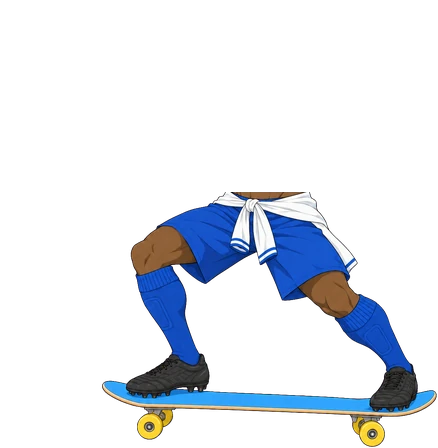
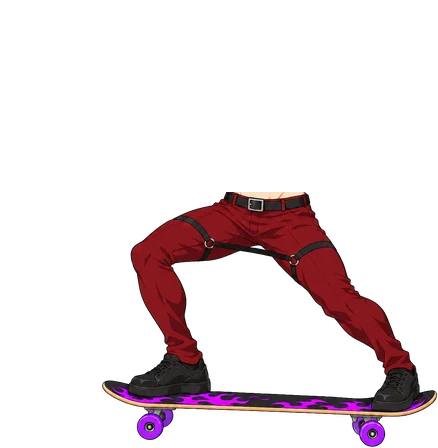
fix: 哥们 skate7 巴神改成八神庵（红发遮眼、黑短夹克、紫火；绿幕出图免得紫火被品红幕键掉）

Changed region(s): [[0.2374, 0.4062, 1.0, 1.0]]

diff --git a/chashouji/web/crew.js b/chashouji/web/crew.js
@@ -647,7 +647,7 @@ const Buddy = Crew({
      借 80/90 后熟知的角色，只留认人特征、发型服饰重新设计（v14/buddy/make.py 有逐个说明）。
      2、3（反戴红帽 / 金发花衬衫）用户拿掉了，贴图删了。 */
   skins: [1,                        // skate1 棕发护目镜花短裤红滑板
-          4, 5, 6, 7,               // skate4 金箍浪子（至尊宝）/ skate5 格格府贝勒（五阿哥）/ skate6 夜色假面绅士 / skate7 莫西干球星（巴神）
+          4, 5, 6, 7,               // skate4 金箍浪子（至尊宝）/ skate5 格格府贝勒（五阿哥）/ skate6 夜色假面绅士 / skate7 红发宿敌（八神庵）
           8, 9, 10],                // skate8 刺猬头武道家 / skate9 红发篮球少年 / skate10 草帽船长
   T: { enter: 0.55, spray: 2.5, exit: 0.5 },
   max: 3, gap: 0.3,

diff --git a/chashouji/v14/buddy/make.py b/chashouji/v14/buddy/make.py
@@ -8,7 +8,11 @@
   skate4 金箍浪子（至尊宝：额头金箍、胡茬、破布短褂、虎纹沙滩裤）
   skate5 格格府贝勒（五阿哥：剃前额长辫到背中、瓜皮帽、敞开宝蓝短马褂）
   skate6 夜色假面绅士（夜礼服假面：高礼帽、白眼罩、叼玫瑰、短披风往后上飘）
-  skate7 莫西干球星（巴神：漂金莫西干、冷脸、赤膊、球衣系腰；真人，只借打扮、脸另画）
+  skate7 红发宿敌（八神庵：红发遮一只眼、敞开的黑色高领短夹克、酒红裤配大腿绑带、手上和水箱里的紫火；
+         夹克上的新月换成三道爪痕）。第一版把"巴神"理解成了球星巴洛特利（skate7_v1_巴神误解.png），用户纠正是八神庵。
+         紫火跟品红幕同色相，品红幕上出图火被键掉、洗成灰青 —— 改成绿幕出（skate7_green.png），
+         crewart.cut(…, 'green', (40, 150)) 抠成透明底存 skate7.png（RGBA，load_cut 直接用）。
+         火苗往左伸过枪口一点，量出来的 muzzle 比别人左 2 像素，不影响（水从共用的 muzzle 出，还在火里）。
   skate8 刺猬头武道家（悟空：黑刺猬炸毛、橙道服蓝腰带、自创漩涡标志；水枪改"气功水炮"）
   skate9 红发篮球少年（樱木花道：红寸头、红黑 7 号背心，无队名）
   skate10 草帽船长（路飞：草帽绿帽带、红底白扶桑花衬衫、无 X 疤；水枪漆成海盗炮）
